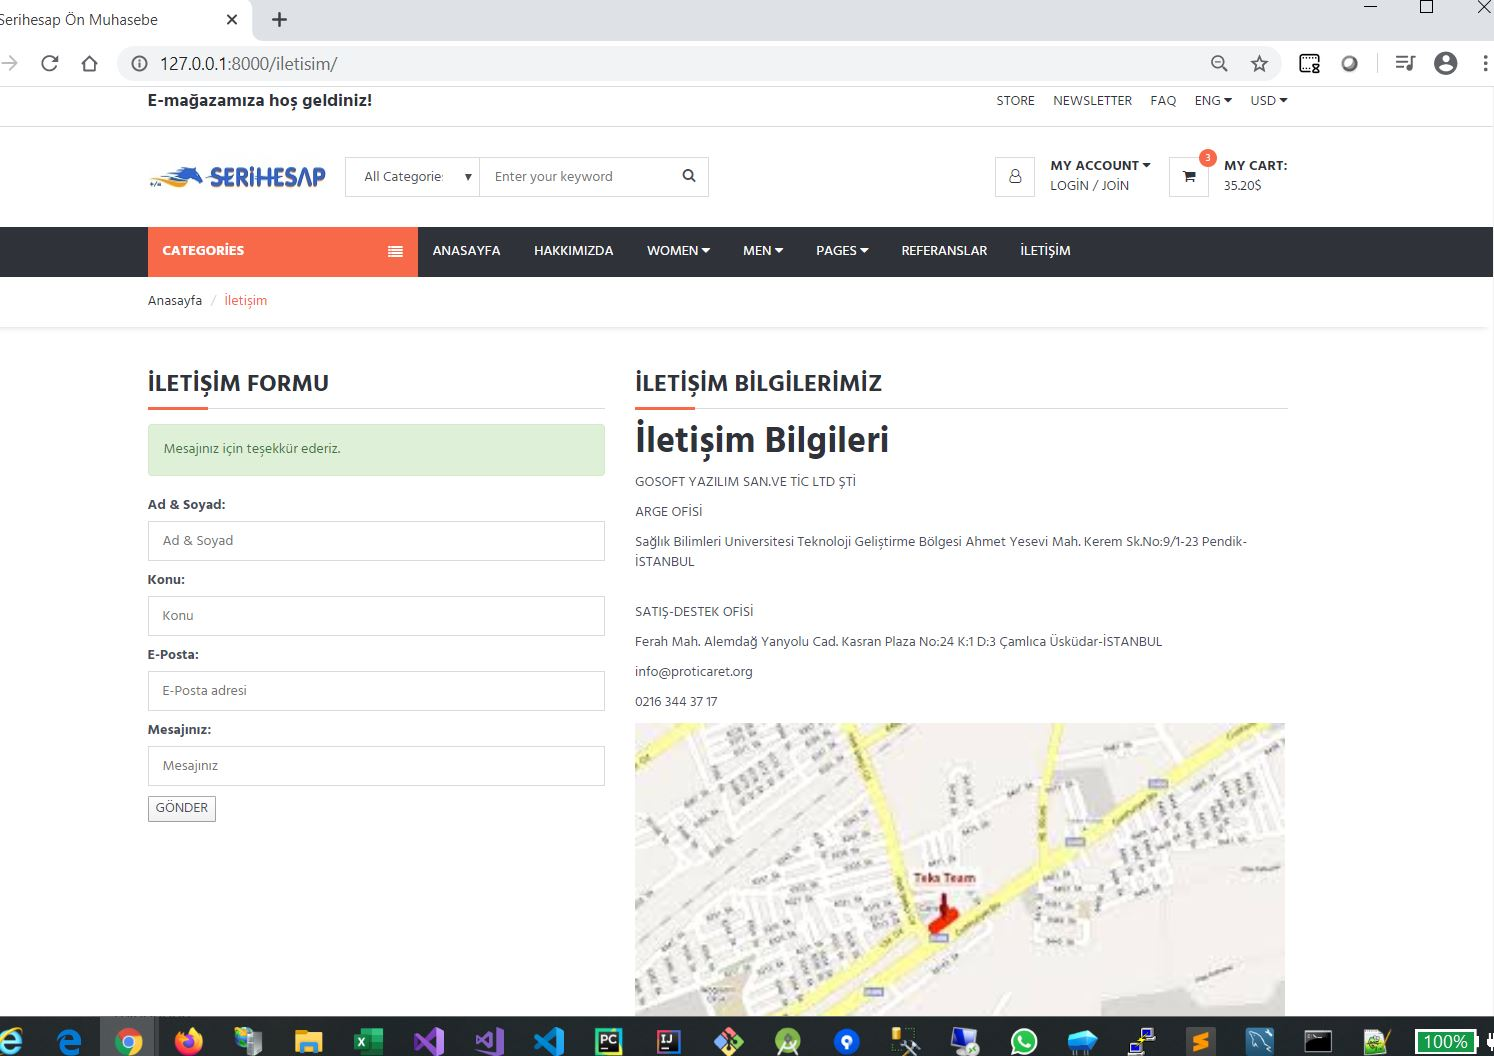
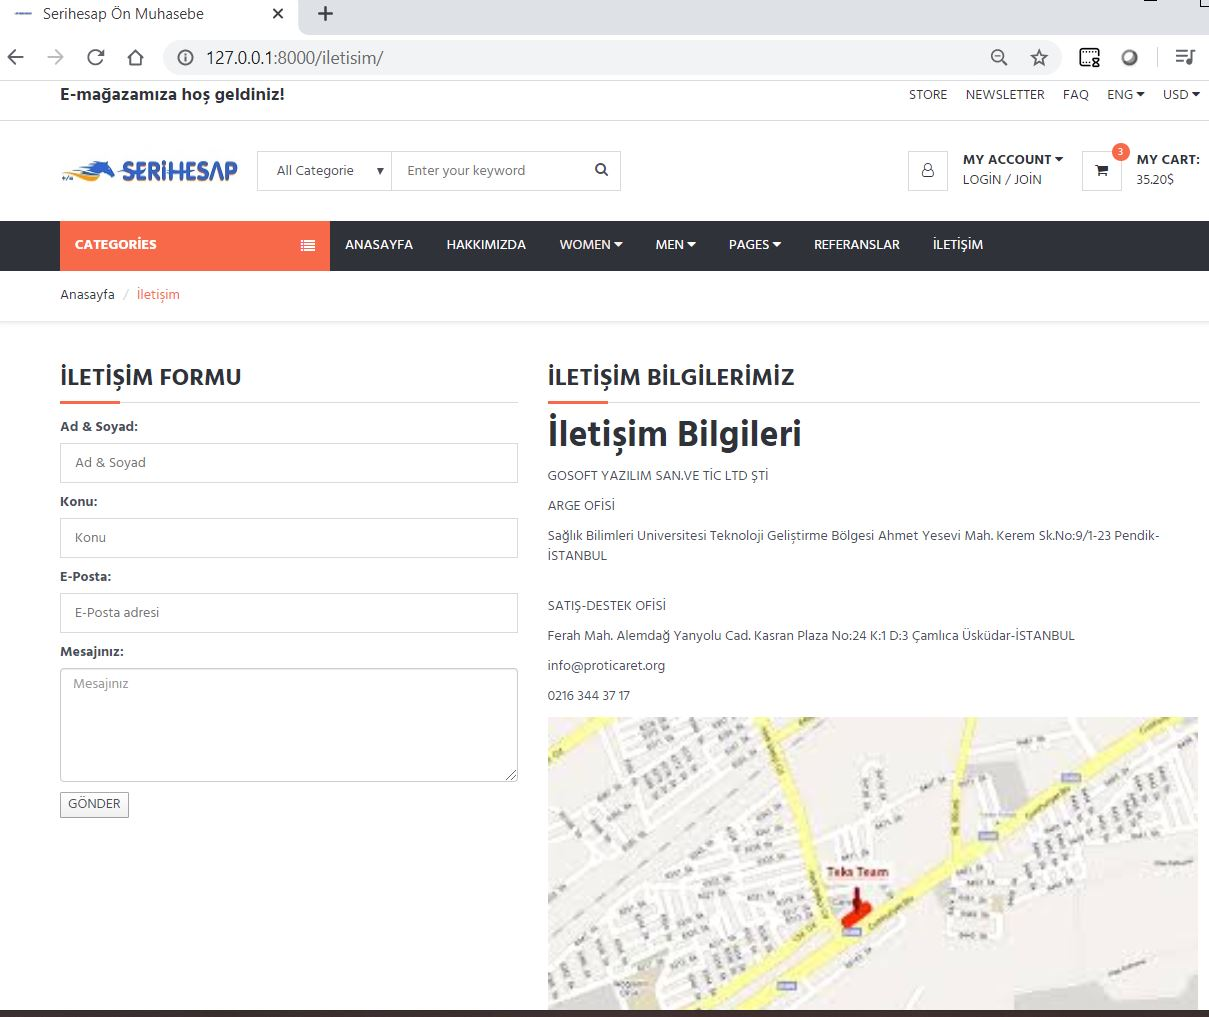
iletişim formu mesaj alanı genişletildi

diff --git a/home/models.py b/home/models.py
@@ -1,7 +1,7 @@
 from ckeditor.fields import RichTextField
 from django import forms
 from django.db import models
-from django.forms import TextInput
+from django.forms import TextInput, Textarea
 from django.utils.safestring import mark_safe
 
 class Setting(models.Model):
@@ -83,7 +83,8 @@ class ContactForm(forms.ModelForm):
             'name'     : TextInput(attrs={'class':'input','placeholder':'Ad & Soyad'}),
             'subject'  : TextInput(attrs={'class':'input','placeholder':'Konu'}),
             'email'    : TextInput(attrs={'class':'input','placeholder':'E-Posta adresi'}),
-            'message'  : TextInput(attrs={'class':'input','placeholder':'Mesajınız'}),
+            'message'  : Textarea(attrs={'class':'form-control','placeholder':'Mesajınız','rows':5, 'cols':15}),
+                #TextInput(attrs={'class':'form-control','placeholder':'Mesajınız','rows':4, 'cols':15}),
         }
         labels = {
             'name'     : 'Ad & Soyad',
